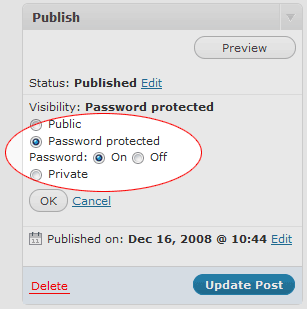
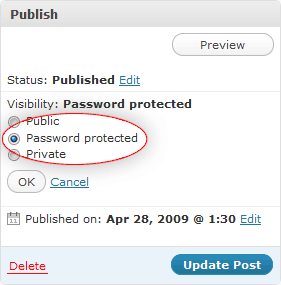
Introduction of (optional) multiple global passwords.

diff --git a/global-post-password.php b/global-post-password.php
@@ -1,12 +1,11 @@
 <?php
 /*
-Plugin Name: Global Post Password
-Description: Enables you to define a global password for all password-protected posts. <a href="options-privacy.php">Click here to change the password</a>.
-Plugin URI:  http://lud.icro.us/wordpress-plugin-global-post-password/
-Version:     1.2
-License:     GNU General Public License
-Author:      John Blackbourn
-Author URI:  http://johnblackbourn.com/
+	Plugin Name: Global Post Password
+	Description: Enables you to define a global password for all password-protected posts. <a href="options-privacy.php">Click here to change the password</a>.
+	Plugin URI:  http://lud.icro.us/wordpress-plugin-global-post-password/
+	Version:     1.3
+	Author:      John Blackbourn
+	Author URI:  http://johnblackbourn.com/
 
 	This program is free software; you can redistribute it and/or modify
 	it under the terms of the GNU General Public License as published by
@@ -23,22 +22,25 @@ Author URI:  http://johnblackbourn.com/
 class GlobalPostPassword {
 
 	function GlobalPostPassword() {
-		if ( strpos($_SERVER['REQUEST_URI'], 'options-privacy.php') ) {
-			add_action('admin_head',   array(&$this, 'start_buffer'));
-			add_action('admin_footer', array(&$this, 'end_buffer'));
-			add_action('blog_privacy_selector', array(&$this, 'options_screen'));
+		if ( $this->is_edit_screen() ) {
+			add_action( 'admin_menu',        array( &$this, 'start_buffer_edit' ) );
+			add_action( 'admin_footer',      array( &$this, 'end_buffer' ) );
+		} else if ( $this->is_manage_screen() ) {
+			add_action( 'admin_menu',        array( &$this, 'start_buffer_manage' ) );
+			add_action( 'admin_head',        array( &$this, 'js_manage' ) );
+			add_action( 'admin_footer',      array( &$this, 'end_buffer' ) );
+		} else if ( $this->is_privacy_screen() ) {
+			add_action( 'admin_head',        array( &$this, 'js_privacy' ) );
+		} else if ( $this->is_wp_pass() ) {
+			add_action( 'init',              array( &$this, 'check_password' ) );
 		}
-		elseif ( strpos($_SERVER['REQUEST_URI'], 'edit.php') or
-		         strpos($_SERVER['REQUEST_URI'], 'post-new.php') or
-		         strpos($_SERVER['REQUEST_URI'], 'page-new.php') or
-		         strpos($_SERVER['REQUEST_URI'], 'post.php'    ) or
-		         strpos($_SERVER['REQUEST_URI'], 'page.php'    ) ) {
-			add_action('admin_head',   array(&$this, 'start_buffer'));
-			add_action('admin_footer', array(&$this, 'end_buffer'));
-		}
-		add_action('update_option_globalpostpassword', array(&$this, 'update_passwords'));
-		# WP 2.7 specific:
-		add_filter('whitelist_options', array( &$this, 'whitelist_options' ));
+		add_filter( 'whitelist_options',     array( &$this, 'whitelist_options' ) );
+		add_action( 'blog_privacy_selector', array( &$this, 'settings' ) );
+		add_action( 'admin_init',            array( &$this, 'register' ) );
+	}
+
+	function register() {
+		register_setting( 'globalpostpassword', 'globalpostpassword', array( $this, 'update' ) );
 	}
 
 	function whitelist_options( $list ) {
@@ -46,72 +48,173 @@ class GlobalPostPassword {
 		return $list;
 	}
 
-	function buffer( $content ) {
-		global $post_ID;
-		if ( strpos($_SERVER['REQUEST_URI'], 'options-privacy.php') )
-			$content = str_replace('name="page_options" value="', 'name="page_options" value="globalpostpassword,', $content);
-		else {
-			$p = get_post($post_ID);
-			$pw = get_option('globalpostpassword');
-			$chk = ( $p->post_password != '' ) ? 'checked="checked"' : '';
-			$replace = "<label class='selectit'><input type='radio' name='post_password' value='$pw' $chk />" . __(' On ', 'g_p_p') . '</label>';
-			$chk = ( $chk ? '' : 'checked="checked"' );
-			$replace .= "<label class='selectit'><input type='radio' name='post_password' value='' $chk />" . __(' Off ', 'g_p_p') . '</label>';
-			$content = preg_replace('/<input (type="text" )?name="post_password".*?\/>/i', $replace, $content);
-			# WP 2.3 specific:
-			$content = str_replace('<h3 class="dbx-handle">' . __('Post Password') . '</h3>', '<h3 class="dbx-handle">' . __('Password Protection', 'g_p_p') . '</h3>', $content);
-			# WP 2.5 specific:
-			$content = str_replace('<h3>' . __('Password Protect This Post') . '</h3>', '<h3 class="dbx-handle">' . __('Password Protection', 'g_p_p') . '</h3>', $content);
-			$content = str_replace(__('Setting a password will require people who visit your blog to enter the above password to view this post and its comments.'), __('Enabling password protection will require people who visit your blog to enter the global post password (<a href="options-privacy.php">set here</a>) to view this post and its comments.', 'g_p_p'), $content);
-			}
-		return $content;
+	function buffer_edit( $content ) {
+
+		$passes  = (array) get_option( 'globalpostpassword' );
+		$search  = '|<span id="password-span">.*?</span>|i';
+		$replace = '<input type="hidden" name="post_password" value="' . attribute_escape( $passes[0] ) . '" />';
+
+		if ( !$passes[0] ) {
+			$replace .= '<div style="background:#FFFFE0;padding:5px;border:1px solid #E6DB55;-moz-border-radius:3px">';
+			$replace .= __( '<strong>Warning:</strong> No global post password set.<br /><a href="options-privacy.php">Set one here &raquo;</a>', 'g_p_p' );
+			$replace .= '</div>';
+		}
+
+		$replace = '<span id="password-span">' . $replace . '</span>';
+
+		return preg_replace( $search, $replace, $content );
+
 	}
 
-	function start_buffer() {
+	function buffer_manage( $content ) {
+
+		$search  = '<input type="text" name="post_password"';
+		$replace = '<input name="post_password" type="hidden" value="" /><input type="checkbox" name="post_password"';
+
+		return str_replace( $search, $replace, $content );
+
+	}
+
+	function js_manage() {
+		$passes = (array) get_option( 'globalpostpassword' );
 		?>
-		<style type="text/css"><!--
+		<script type="text/javascript">
 
-		#passworddiv input {
-			margin-top: inherit;
-			width: inherit;
-		}
+		jQuery(function($) {
+			$('a.editinline').click(function() {
+				$('.inline-edit-password-input').attr('checked',function(){
+					return $(this).val() ? 'checked' : '';
+				}).val('<?php echo attribute_escape( $passes[0] ); ?>').css({
+					margin : '0.3em',
+					width  : 'auto'
+				});
+				$('.inline-edit-group [name=post_password]:hidden').val('');
+				return false;
+			});
+		});
 
-		#passworddiv label {
-			display: block;
-		}
-
-		--></style>
+		</script>
 		<?php
-		ob_start(array(&$this, 'buffer'));
+	}
+
+	function js_privacy() {
+		?>
+		<script type="text/javascript">
+
+		jQuery(function($) {
+			$('#mgpp h4').show();
+			if ( $('#mgpp input').length > 1 )
+				$('#mgpp input:last, #mgpp br:last').hide();
+			$('#mgpp h4 a').click(function(){
+				$('#mgpp input:last').after($('#mgpp input:last').clone().val('').show()).after('<br />');
+				return false;
+			});
+		});
+
+		</script>
+		<?php
+	}
+
+	function check_password() {
+		if ( !isset( $_POST['post_password'] ) or empty( $_POST['post_password'] ) )
+			return;
+		if ( get_magic_quotes_gpc() )
+			$_POST['post_password'] = stripslashes( $_POST['post_password'] );
+		if ( in_array( $_POST['post_password'], $passes = (array) get_option( 'globalpostpassword' ) ) )
+			$_POST['post_password'] = $passes[0];
+		if ( get_magic_quotes_gpc() )
+			$_POST['post_password'] = addslashes( $_POST['post_password'] );
+	}
+
+	function settings() {
+		$passes = (array) get_option( 'globalpostpassword' );
+		?>
+			</td>
+		</tr>
+		<tr valign="top">
+			<th scope="row"><?php _e('Global Post Password', 'g_p_p'); ?></th>
+			<td><input name="globalpostpassword[0]" type="text" value="<?php echo attribute_escape( $passes[0] ); ?>" class="regular-text" />
+			    <p><?php _e('Any posts which are password-protected will use this password.', 'g_p_p'); ?></p>
+			    <p class="setting-description description"><?php _e('<strong>Warning:</strong> Setting this password to a blank value will remove password protection from all posts! If you wish to return to per-post passwords, deactivate or uninstall the Global Post Password plugin.', 'g_p_p'); ?></p>
+			</td>
+		</tr>
+		<tr valign="top">
+			<th scope="row"><?php _e('Additional Global Post Passwords', 'g_p_p'); ?></th>
+			<td id="mgpp"><?php
+
+			foreach ( $passes as $key => $pass ) {
+				if ( !$key )
+					continue;
+				echo '<input name="globalpostpassword[]" type="text" value="' . attribute_escape( $pass ) . '" class="regular-text" /><br />';
+			}
+
+			?>
+			<input name="globalpostpassword[]" type="text" value="" class="regular-text" />
+			<h4 style="display:none"><a href="#"><?php _e('+ Add', 'g_p_p'); ?></a></h4>
+			<p><?php _e('Optionally, any number of additional global post passwords can be set here.', 'g_p_p'); ?></p>
+			<p class="setting-description description"><?php _e( 'These work just like the main global post password, but can be changed or removed whenever necessary. Users can enter the global post password or any one of the additional global post passwords to gain access to any password protected post. This gives you the ability to have temporary passwords which can be given to certain users and revoked at a later date.', 'g_p_p'); ?></p>
+		<?php
+	}
+
+	function update( $passes ) {
+		global $wpdb;
+		$passes = (array) $passes;
+		foreach ( $passes as $key => $pass ) {
+			if ( !trim( $pass ) )
+				unset( $passes[$key] );
+		}
+		$wpdb->query( $wpdb->prepare( "
+			UPDATE {$wpdb->posts}
+			SET `post_password` = %s
+			WHERE `post_password` <> ''
+		", $passes[0] ) );
+		return array_values( $passes );
+	}
+
+	function start_buffer_edit() {
+		ob_start( array( &$this, 'buffer_edit' ) );
+	}
+
+	function start_buffer_manage() {
+		ob_start( array( &$this, 'buffer_manage' ) );
 	}
 
 	function end_buffer() {
 		ob_end_flush();
 	}
 
-	function options_screen() {
-		?>
-	</td>
-	</tr>
-	<tr valign="top">
-	<th scope="row"><?php _e('Global Post Password:', 'g_p_p'); ?></th>
-	<td><input name="globalpostpassword" type="text" value="<?php form_option('globalpostpassword'); ?>" />
-	<p><?php _e('Any posts which are password-protected will use this password', 'g_p_p'); ?></p>
-	<p><?php _e('<strong>Warning:</strong> Setting the password to a blank value will switch off password protection on all posts! If you wish to remove the global password functionality and return to per-post passwords, simply disable or uninstall the Global Post Password plugin.', 'g_p_p'); ?></p>
-		<?php
+	function is_edit_screen() {
+		if ( strpos( $_SERVER['REQUEST_URI'], 'post-new.php' )
+		  or strpos( $_SERVER['REQUEST_URI'], 'page-new.php')
+		  or strpos( $_SERVER['REQUEST_URI'], 'post.php' )
+		  or strpos( $_SERVER['REQUEST_URI'], 'page.php' ) )
+			return true;
+		return false;
 	}
 
-	function update_passwords() {
-		global $wpdb;
-		$pw = get_option('globalpostpassword');
-		$wpdb->query("UPDATE {$wpdb->posts} SET `post_password` = '$pw' WHERE `post_password` <> ''");
+	function is_manage_screen() {
+		if ( strpos( $_SERVER['REQUEST_URI'], 'edit.php' )
+		  or strpos( $_SERVER['REQUEST_URI'], 'edit-pages.php' ) )
+			return true;
+		return false;
+	}
+
+	function is_privacy_screen() {
+		if ( strpos( $_SERVER['REQUEST_URI'], 'options-privacy.php' ) )
+			return true;
+		return false;
+	}
+
+	function is_wp_pass() {
+		if ( strpos( $_SERVER['REQUEST_URI'], 'wp-pass.php' ) )
+			return true;
+		return false;
 	}
 
 }
 
 $g_p_p = new GlobalPostPassword();
 
-if ( function_exists('load_plugin_textdomain') )
-	load_plugin_textdomain('g_p_p', PLUGINDIR);
+load_plugin_textdomain( 'g_p_p', PLUGINDIR . '/' . dirname( plugin_basename( __FILE__ ) ), dirname( plugin_basename( __FILE__ ) ) );
 
 ?>
